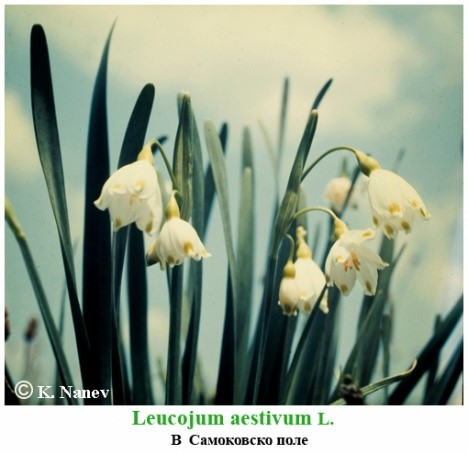
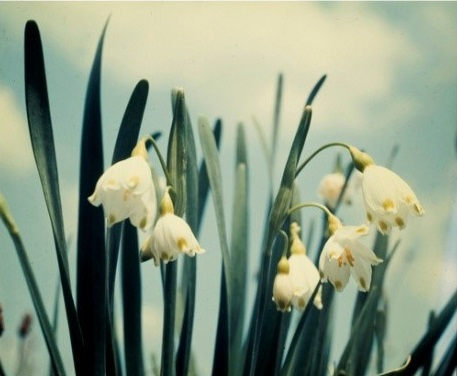
add full bg

diff --git a/src/lib/components/atoms/Image.svelte b/src/lib/components/atoms/Image.svelte
@@ -8,6 +8,9 @@
 	export let formats: string[] = ['avif', 'webp', 'png'];
 	export let widths: string[] | undefined = undefined;
 
+	// New prop to control object-fit
+	export let fit: 'cover' | 'contain' = 'cover';
+
 	$: fileName = src.split('.')[0];
 
 	function buildSrcset() {
@@ -37,12 +40,19 @@
 	}
 </script>
 
-<img srcset={buildSrcset()} {src} {alt} loading="lazy" decoding="async" class:full-bleed={fullBleed} />
+<img
+	srcset={buildSrcset()}
+	{src}
+	{alt}
+	loading="lazy"
+	decoding="async"
+	class:full-bleed={fullBleed}
+	style="object-fit: {fit};"
+/>
 
 <style lang="scss">
 	img {
 		width: 100%;
 		height: 100%;
-		object-fit: contain;
 	}
 </style>

diff --git a/src/lib/components/organisms/Header.svelte b/src/lib/components/organisms/Header.svelte
@@ -17,7 +17,7 @@
 			<ThemeToggle />
 			<a href="https://danube-en.vercel.app/">
 				<div class="image">
-					<Image src="/images/bg.jpg" alt="bulgarian flag" />
+					<Image fit="contain" src="/images/bg.jpg" alt="bulgarian flag" />
 				</div>
 			</a>
 		</div>
